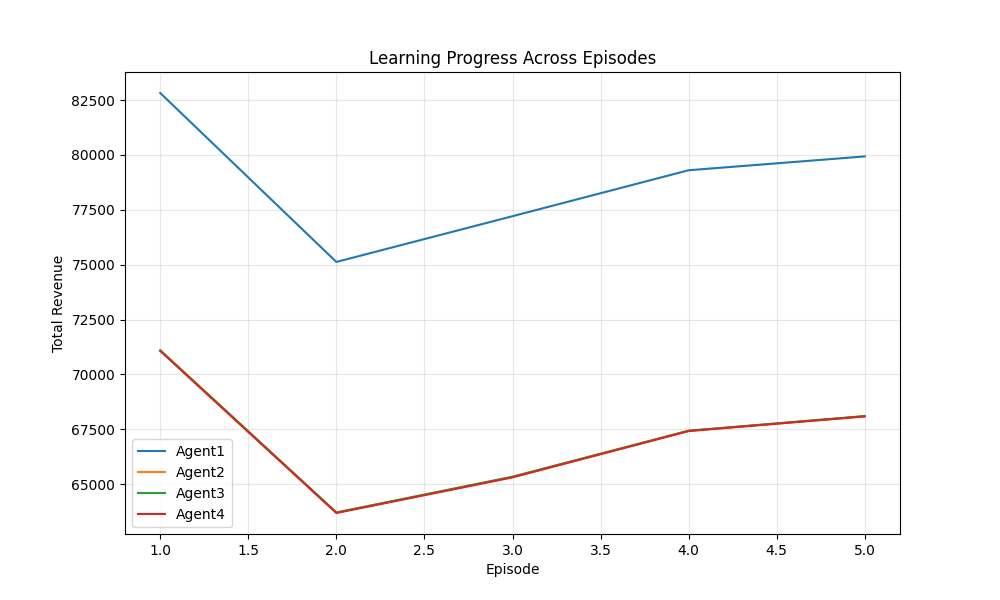
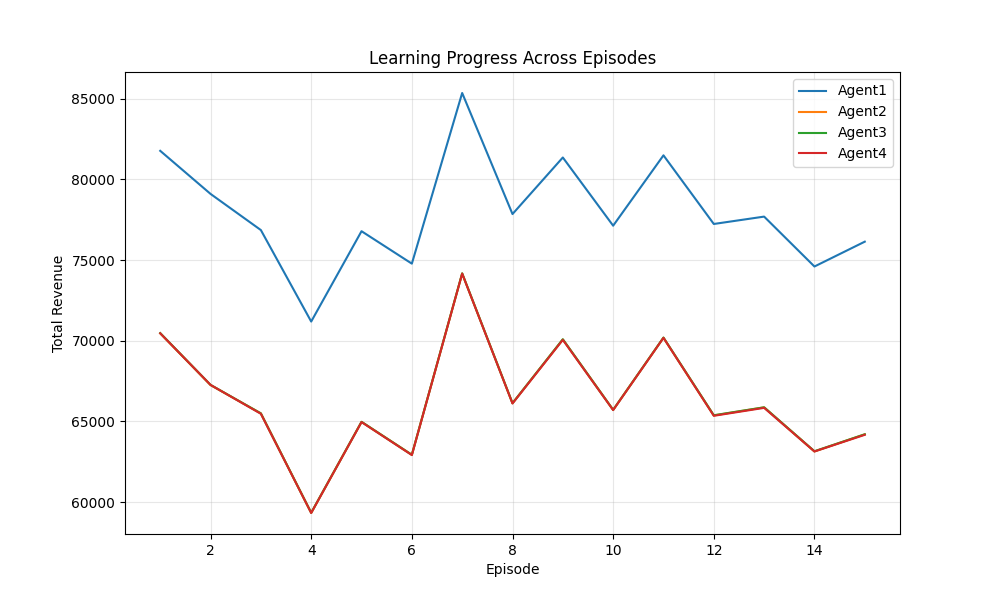
Competing models

diff --git a/simulate.py b/simulate.py
@@ -78,24 +78,21 @@ def run_simulation(weeks=52, episodes=3, num_agents=4, agent_type="maddpg"):
         for i in range(num_agents):
             if i < len(product_portfolios):  # Make sure we have a portfolio for this agent
                 if i == 0:  # First agent is MADDPG
-                    agents.append(
-                        MADDPGAgent(
-                            f"Agent{i+1}", 
-                            product_portfolios[i],
-                            actor_lr=0.0005,
-                            critic_lr=0.001,
-                            discount_factor=0.98,
-                            tau=0.005,
-                            exploration_noise=max(0.1, 0.3 * np.exp(-episode/15)),
-                        )
+                    maddpg_agent = MADDPGAgent(
+                        f"Agent{i+1}", 
+                        product_portfolios[i],
+                        actor_lr=0.0005,
+                        critic_lr=0.001,
+                        discount_factor=0.98,
+                        tau=0.005,
+                        exploration_noise=max(0.1, 0.3 * np.exp(-episode/15)),
                     )
+                    # Enable debugging/tracking for this agent
+                    maddpg_agent.debug_mode = True
+                    agents.append(maddpg_agent)
                 else:  # Other agents are rule-based
                     # You can use different strategies for each rule agent if desired
                     strategy = rule_strategy  # Use the default strategy
-                    
-                    # Optionally, use different rule strategies for each agent
-                    # strategies = ["competitor_match", "demand_responsive", "historical_anchor"]
-                    # strategy = strategies[i-1]  # Use a different strategy for each agent
                     
                     agents.append(
                         RuleBasedAgent(
@@ -356,6 +353,46 @@ def run_simulation(weeks=52, episodes=3, num_agents=4, agent_type="maddpg"):
         import traceback
         traceback.print_exc()
     
+    # After your simulation completes, add this code
+    if agent_type == "maddpg" and hasattr(agents[0], 'actor_losses') and len(agents[0].actor_losses) > 0:
+        # Plot actor and critic losses
+        plt.figure(figsize=(12, 8))
+        
+        plt.subplot(2, 2, 1)
+        plt.plot(agents[0].actor_losses)
+        plt.title('Actor Loss')
+        plt.xlabel('Training Step')
+        plt.grid(True, alpha=0.3)
+        
+        plt.subplot(2, 2, 2)
+        plt.plot(agents[0].critic_losses)
+        plt.title('Critic Loss')
+        plt.xlabel('Training Step')
+        plt.grid(True, alpha=0.3)
+        
+        plt.subplot(2, 2, 3)
+        if len(agents[0].actions_before_noise) > 0:
+            plt.plot(agents[0].actions_before_noise[-100:], label='Before Noise')
+            plt.plot(agents[0].actions_after_noise[-100:], label='After Noise', alpha=0.7)
+            plt.title('Recent Actions (Last 100)')
+            plt.xlabel('Step')
+            plt.ylabel('Action Value')
+            plt.legend()
+            plt.grid(True, alpha=0.3)
+        
+        plt.subplot(2, 2, 4)
+        episodes_x = np.arange(1, episodes+1)
+        exploration_values = [max(0.1, 0.3 * np.exp(-ep/15)) for ep in range(episodes)]
+        plt.plot(episodes_x, exploration_values)
+        plt.title('Exploration Noise Decay')
+        plt.xlabel('Episode')
+        plt.ylabel('Noise Magnitude')
+        plt.grid(True, alpha=0.3)
+        
+        plt.tight_layout()
+        plt.savefig("maddpg_learning_metrics.png")
+        print("Saved MADDPG learning metrics visualization to maddpg_learning_metrics.png")
+    
     return episode_returns, final_metrics
 
 if __name__ == "__main__":
@@ -365,7 +402,7 @@ if __name__ == "__main__":
     rule_strategy = "competitor_match"  # Other options: "static_markup", "historical_anchor", "demand_responsive", "seasonal_pricing"
     
     try:
-        episode_returns, metrics = run_simulation(weeks=104, episodes=5, num_agents=4, agent_type=agent_type)
+        episode_returns, metrics = run_simulation(weeks=104, episodes=15, num_agents=4, agent_type=agent_type)
         print("\nSimulation complete!")
         print("\nTotal revenue by episode:")
         for episode in range(len(episode_returns['Agent1'])):

diff --git a/agents/maddpg_agent.py b/agents/maddpg_agent.py
@@ -5,8 +5,6 @@ from collections import deque
 import random
 import sys, os
 from env.pricing_agent import PricingAgent
-
-# Add this at the top of your maddpg_agent.py file (after imports)
 import os
 os.environ["CUDA_VISIBLE_DEVICES"] = "-1"  # Force CPU-only mode
 
